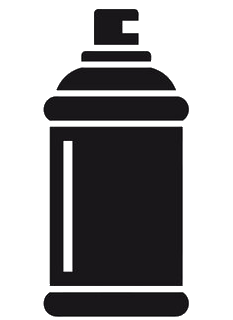
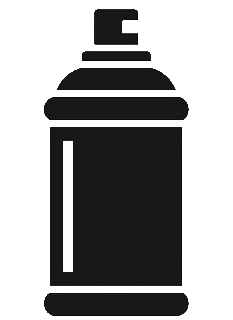
Added pointer for spray mode. Fixed spray and spray effect images having white pixels around the edge.

diff --git a/Assets/Scripts/PaintModeToggle.cs b/Assets/Scripts/PaintModeToggle.cs
@@ -10,6 +10,7 @@ public class PaintModeToggle : MonoBehaviour
     
     public Image selfImage;
     public Image paintButtonImage;
+    public GameObject pointerImage; //GameObject to access SetActive
 
     public Sprite sprayCanSprite;
     public Sprite fingerSprite;
@@ -33,11 +34,16 @@ public class PaintModeToggle : MonoBehaviour
 
     public void Toggle()
     {
+    	//visuals
     	sprayMode = !sprayMode;
     	selfImage.sprite = sprayMode ? fingerSprite : sprayCanSprite;
     	paintButtonImage.sprite = sprayMode ? sprayCanSprite : fingerSprite;
+    	pointerImage.SetActive(sprayMode); //pointer only visible in spray mode.
+    	
+    	//raycasting
         touchRaycast.modeEnabled = !sprayMode;
         sprayRaycast.modeEnabled = sprayMode;
+        
         //sprayCan.SetActive(!sprayCan.activeSelf);
         //sprayMode = sprayCan.activeSelf;
     }
